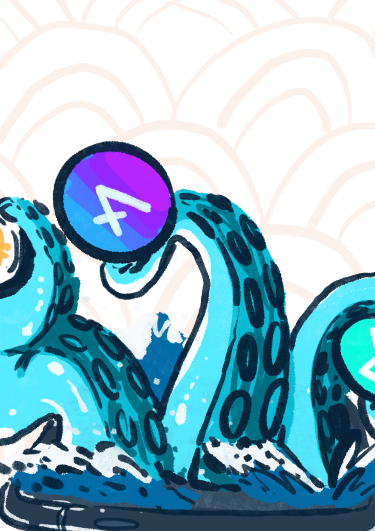
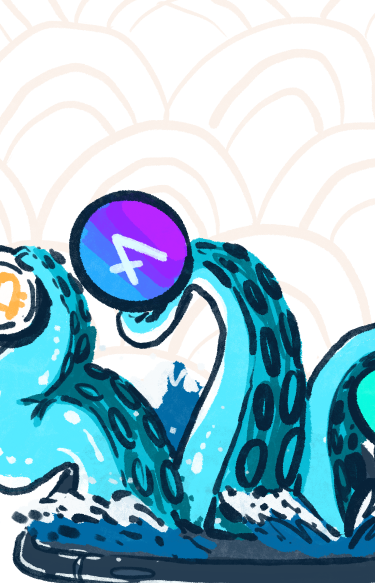
improvements

diff --git a/src/screens/SaveScreen/SaveEmptyStateScreen/SaveEmptyStateScreen.tsx b/src/screens/SaveScreen/SaveEmptyStateScreen/SaveEmptyStateScreen.tsx
@@ -1,17 +1,22 @@
 import React from 'react';
-import { View, ImageBackground, TouchableOpacity } from 'react-native';
+import { View, ImageBackground, TouchableOpacity, useColorScheme } from 'react-native';
 import { Icon, Text, Button } from '@components';
 import { useTheme } from '@hooks';
 import { makeStyles } from './SaveEmptyStateScreen.styles';
 import bgSaveEmptyScreen from './bgSaveEmptyScreen.png';
+import bgSaveEmptyScreenDark from './bgSaveEmptyScreenDark.png';
 
 const SaveEmptyStateScreen = () => {
 	const { colors } = useTheme();
 	const styles = makeStyles(colors);
+	const scheme = useColorScheme();
 
 	return (
 		<View style={styles.container}>
-			<ImageBackground source={bgSaveEmptyScreen} style={styles.bgSaveEmptyScreen} />
+			<ImageBackground
+				source={scheme === 'dark' ? bgSaveEmptyScreenDark : bgSaveEmptyScreen}
+				style={styles.bgSaveEmptyScreen}
+			/>
 			<View style={styles.headerNavegation}>
 				<TouchableOpacity style={styles.headerNavegationLeft} onPress={() => navigation.goBack()}>
 					<Icon name="chevronLeft" color="cta1" size={24} />
@@ -22,10 +27,10 @@ const SaveEmptyStateScreen = () => {
 			</View>
 			<View style={styles.saceEmptyStateContent}>
 				<View style={styles.saveEmptyStateCard}>
-					<Text type="h2" weight="extraBold" color="text1" marginBottom={0} style={styles.textCenter}>
+					<Text type="h3" weight="extraBold" color="text1" marginBottom={0} style={styles.textCenter}>
 						Open Aave
 					</Text>
-					<Text type="h2" weight="extraBold" color="text1" marginBottom={24} style={styles.textCenter}>
+					<Text type="h3" weight="extraBold" color="text1" marginBottom={24} style={styles.textCenter}>
 						Savings Account
 					</Text>
 					<Text color="text3" marginBottom={56} style={styles.textCenter}>

diff --git a/src/screens/SaveScreen/SaveEmptyStateScreen/SaveEmptyStateScreen.styles.ts b/src/screens/SaveScreen/SaveEmptyStateScreen/SaveEmptyStateScreen.styles.ts
@@ -29,7 +29,7 @@ export const makeStyles = (colors: ColorType) =>
 		},
 		saveEmptyStateCard: {
 			width: '100%',
-			height: '52%',
+			height: '45%',
 			alignItems: 'center',
 			paddingHorizontal: 24,
 			paddingTop: '16%',
@@ -41,7 +41,7 @@ export const makeStyles = (colors: ColorType) =>
 		},
 		bgSaveEmptyScreen: {
 			width: '100%',
-			height: 531,
+			height: 583,
 			position: 'absolute',
 			top: 0,
 			left: 0,

diff --git a/src/styles/colors.ts b/src/styles/colors.ts
@@ -62,7 +62,7 @@ const darkTheme = {
 	text3: '#B7B9BB',
 	text4: '#748190',
 	text5: '#D0D0D0',
-	text6: '#FFFFFF',
+	text6: '#0A2138',
 	text7: '#FFFFFF',
 
 	// Colors that aren't in tokens, but are used in the project.
